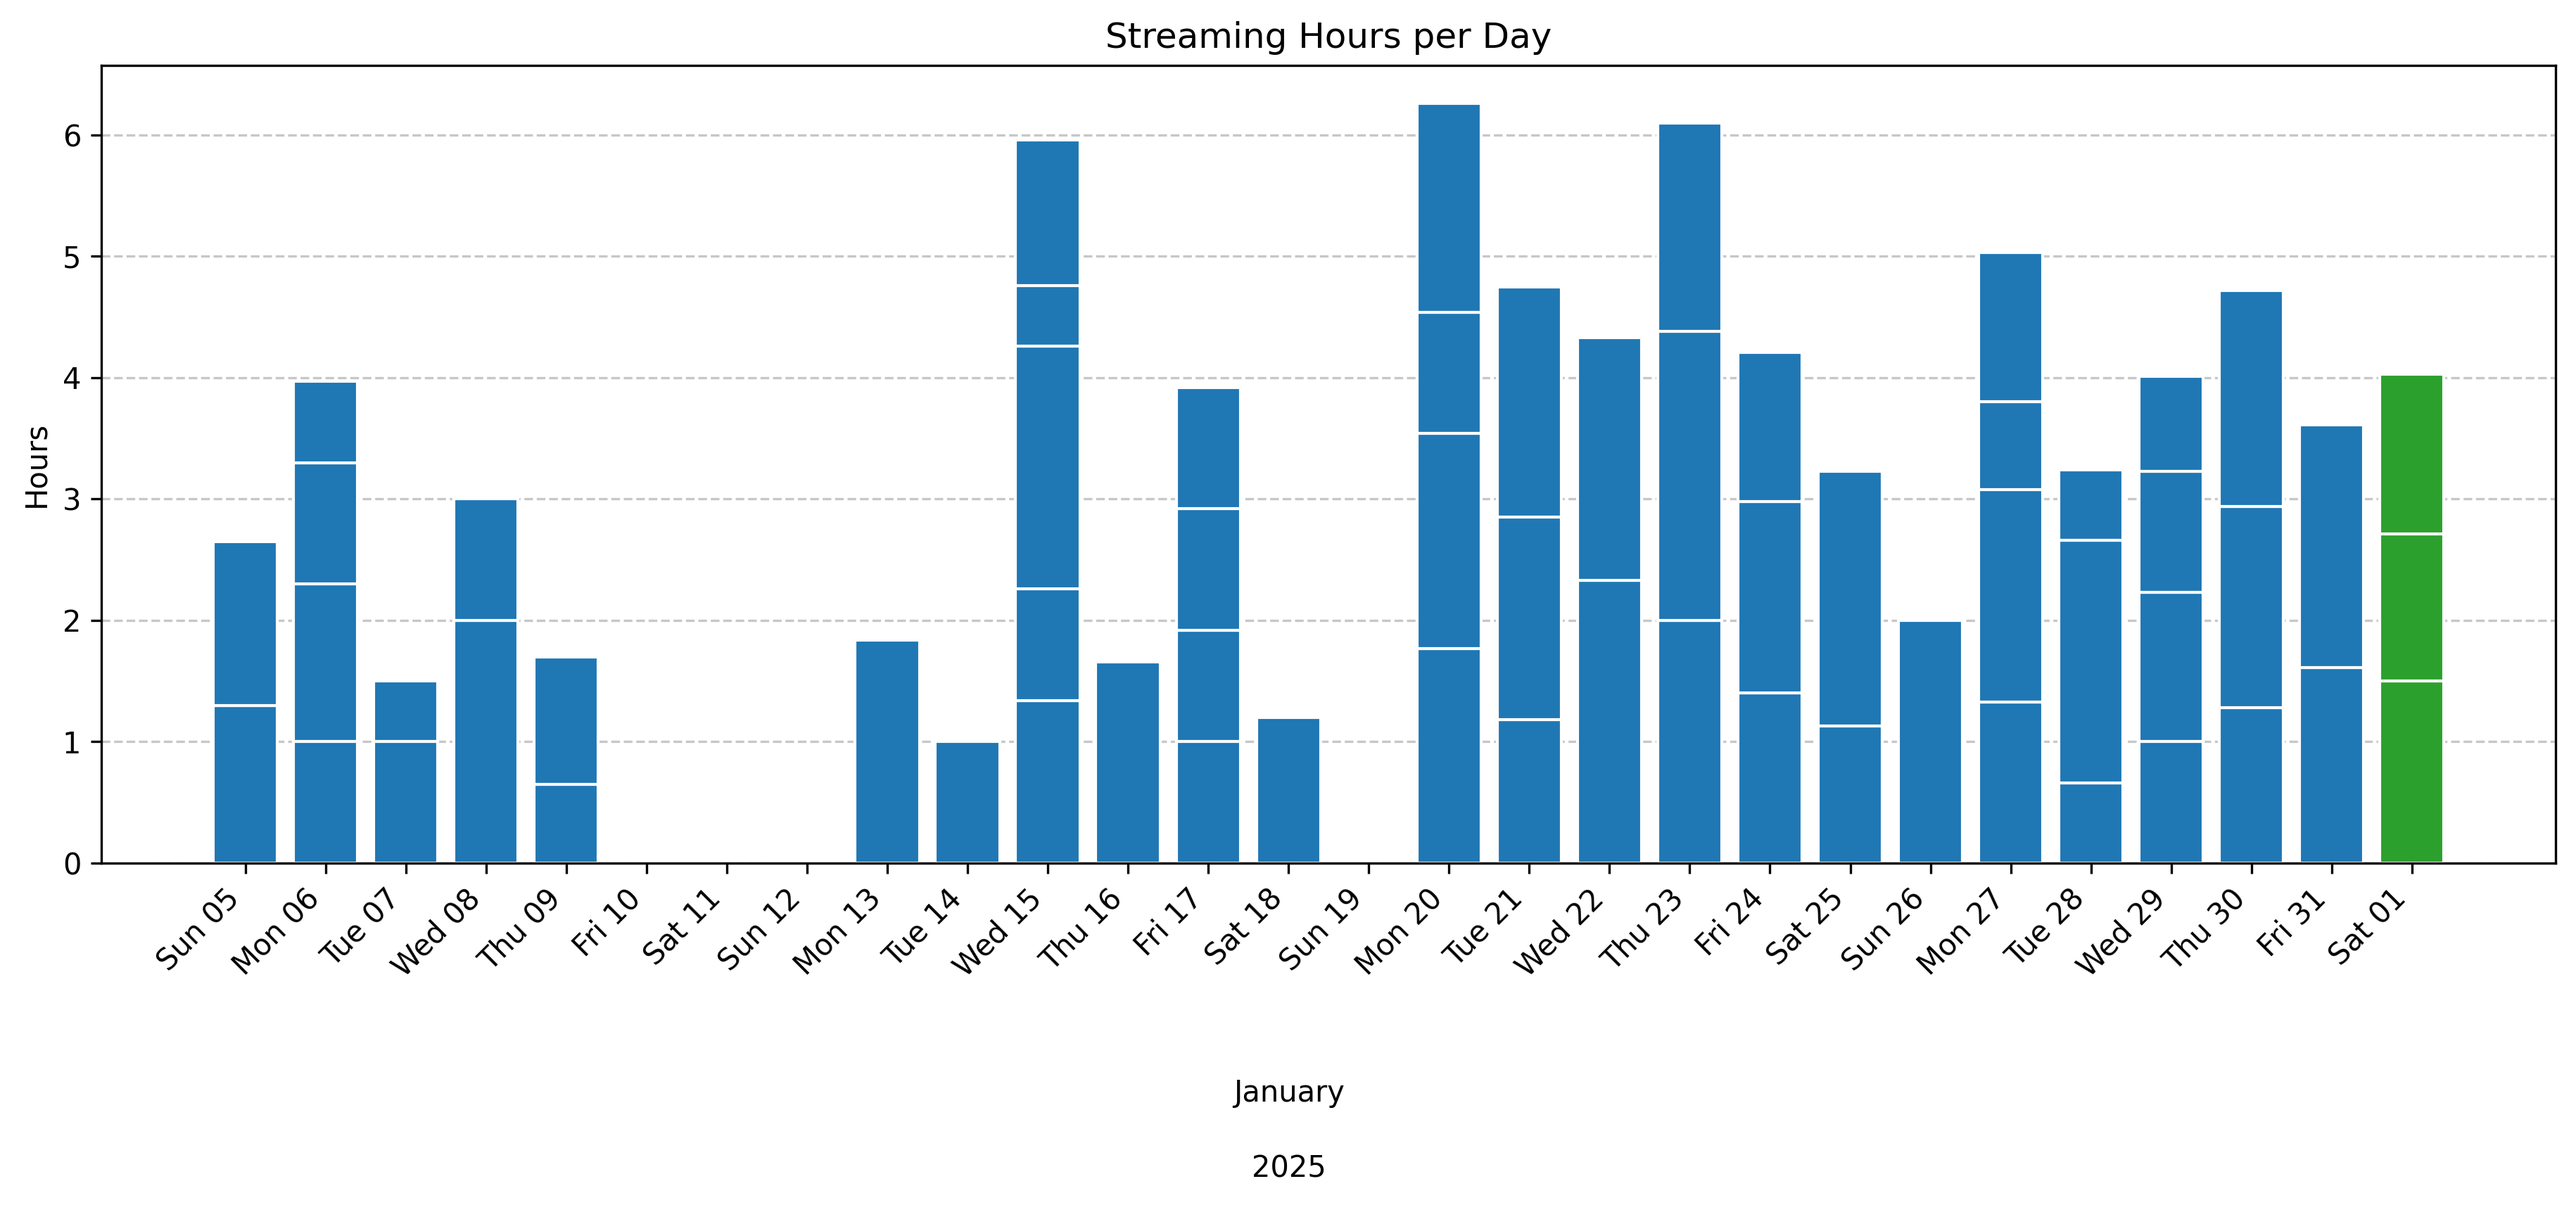
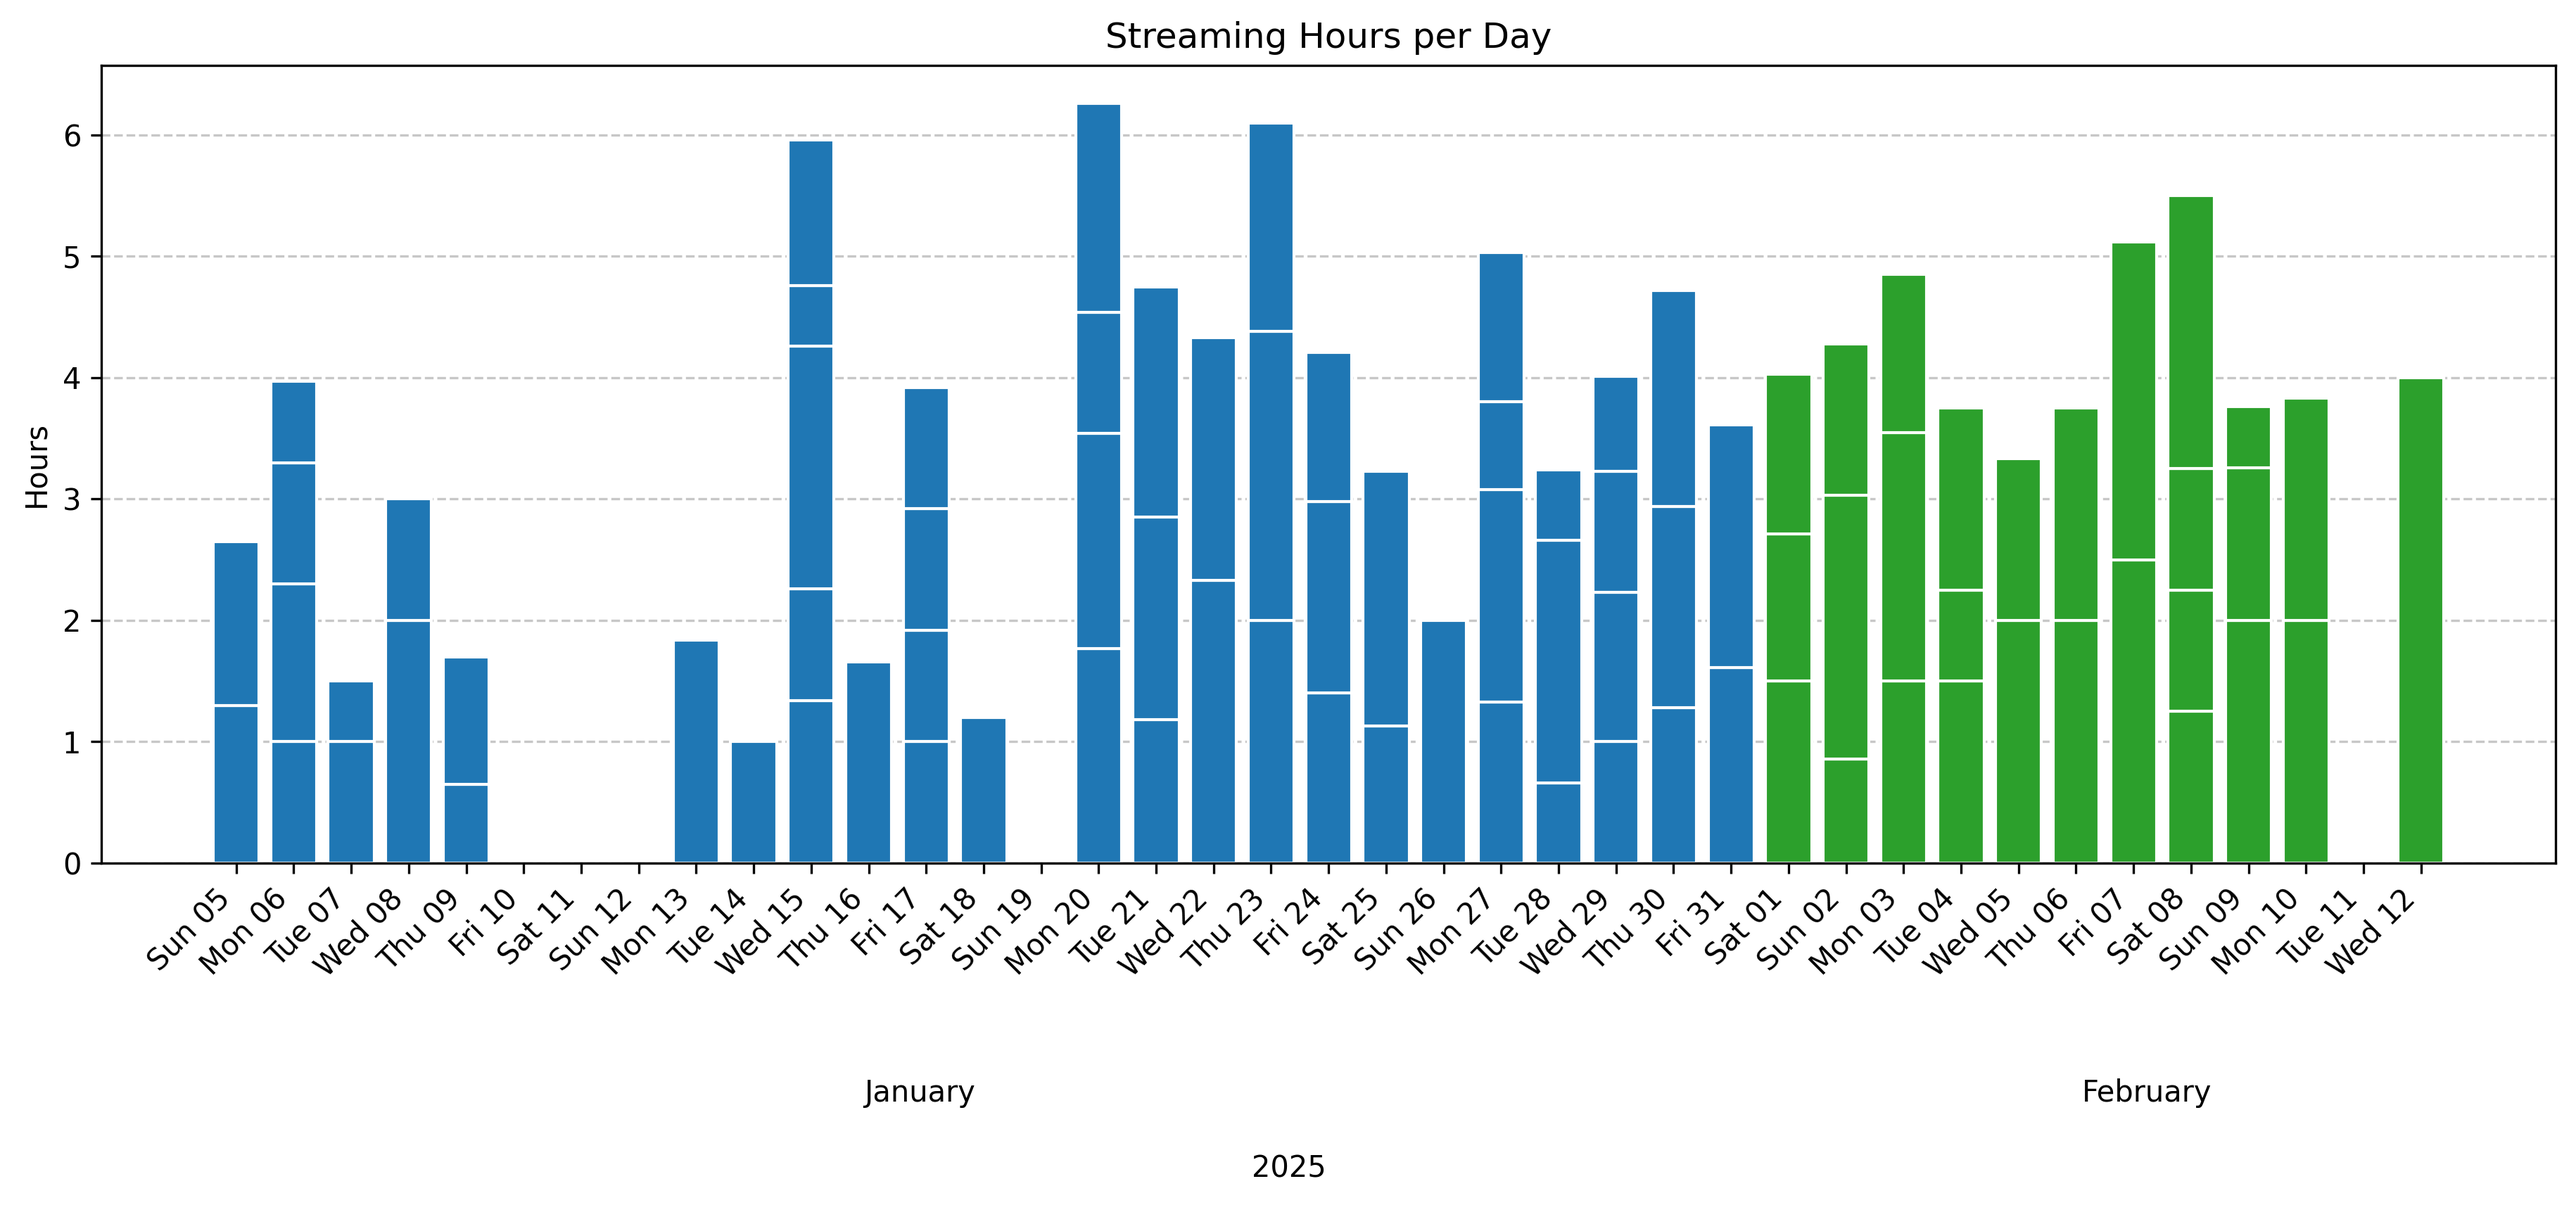
fixed up month

diff --git a/combined_progress.html b/combined_progress.html
@@ -57,14 +57,14 @@
             transition: height 0.5s ease;
             position: relative;
             border-radius: 12px 12px 0 0;  /* Doubled from 6px */
-            box-shadow: 0 0 20px rgba(0, 0, 0, 0.7);  /* Doubled from 10px */
+            box-shadow: 0 0 20px rgba(0, 0, 0, 0.5);  /* Doubled from 10px */
         }
         .bar-hours {
             position: absolute;
             bottom: 10px;  /* Doubled from 5px */
             left: 50%;
             transform: translateX(-50%);
-            color: #222;
+            color: #444;
             font-weight: bold;
             font-size: 1.6em;  /* Doubled from 0.8em */
         }
@@ -93,7 +93,7 @@
             background-color: #444;
             border-radius: 30px;  /* Doubled from 15px */
             overflow: hidden;
-            box-shadow: 0 0 20px rgba(0, 0, 0, 0.7);  /* Doubled from 10px */
+            box-shadow: 0 0 20px rgba(0, 0, 0, 0.5);  /* Doubled from 10px */
             border: 0px solid white;
         }
         .progress-bar {
@@ -151,17 +151,21 @@
         }
         .title {
             text-align: center;
-            font-size: 1.8em;
+            font-size: 1.4em;
             font-weight: bold;
             margin-bottom: 0;  /* Changed from 20px to 0 */
             color: white;
+        }
+        .hours-unit {
+            font-size: 0.6em;
+            color: #444;
         }
     </style>
 </head>
 <body>
     <div class="dashboard-container">
         <!-- Title -->
-        <div class="title">Mandarin study time</div>
+        <div class="title">2025 Mandarin study time</div>
         
         <!-- Bar Chart Grid -->
         <div class="bar-grid">
@@ -256,7 +260,7 @@
                     const daysAgo = 3 - i;
                     barElement.style.height = `${barHeight}px`;
                     labelElement.textContent = `${daysAgo}d ago`;
-                    hoursElement.textContent = `${Math.round(data.hours)} h`;  // Changed from toFixed(1) to round and added "h"
+                    hoursElement.innerHTML = `${data.hours.toFixed(1)}<span class="hours-unit">h</span>`;  // Changed format
                 });
 
                 // Fetch total progress

diff --git a/analyze_commits.py b/analyze_commits.py
@@ -161,9 +161,27 @@ ax = plt.gca()
 ax.set_xticks(range(len(complete_dates)))
 ax.set_xticklabels(date_labels, rotation=45, ha='right')
 
-# Add month and year labels below dates
-plt.figtext(0.5, 0.08, month, ha='center', va='top')  # Month in middle
-plt.figtext(0.5, 0.02, year, ha='center', va='top')   # Year at bottom
+# Find the indices for first and last day of each month
+current_month = datetime.strptime(complete_dates[0], '%Y-%m-%d').month
+month_start_idx = 0
+year = datetime.strptime(complete_dates[0], '%Y-%m-%d').year
+
+for i, date in enumerate(complete_dates):
+    dt = datetime.strptime(date, '%Y-%m-%d')
+    if dt.month != current_month or i == len(complete_dates) - 1:
+        # Center month label between start and end indices
+        month_center = (month_start_idx + (i - 1 if dt.month != current_month else i)) / 2
+        month_name = datetime(year, current_month, 1).strftime('%B')
+        plt.figtext(ax.get_position().x0 + (month_center / len(complete_dates)) * ax.get_position().width,
+                   0.08, month_name, ha='center', va='top')
+        
+        # Update for next month
+        current_month = dt.month
+        month_start_idx = i
+        year = dt.year
+
+# Add year label at bottom
+plt.figtext(0.5, 0.02, year, ha='center', va='top')
 
 plt.title('Streaming Hours per Day')
 plt.xlabel('')
